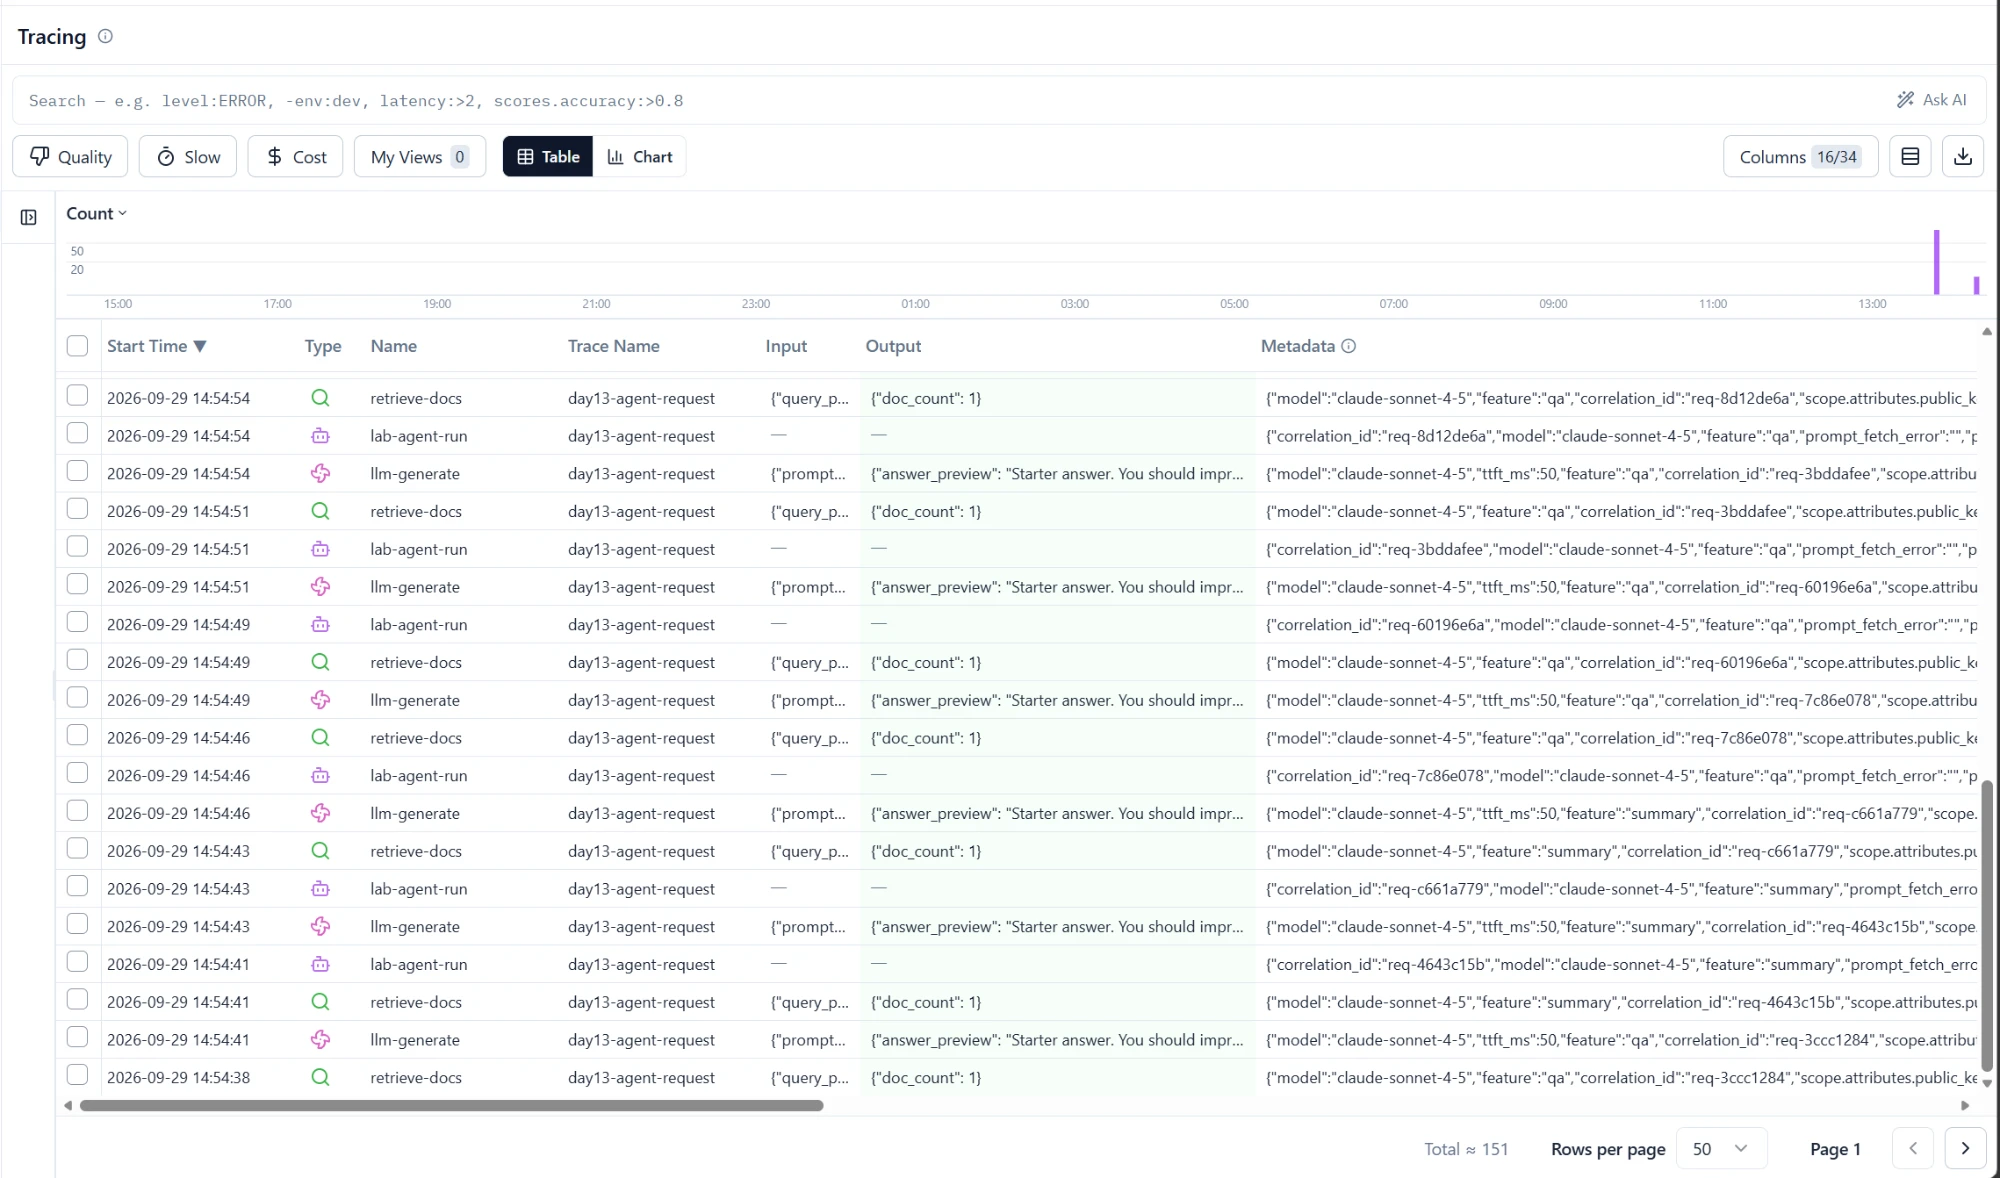
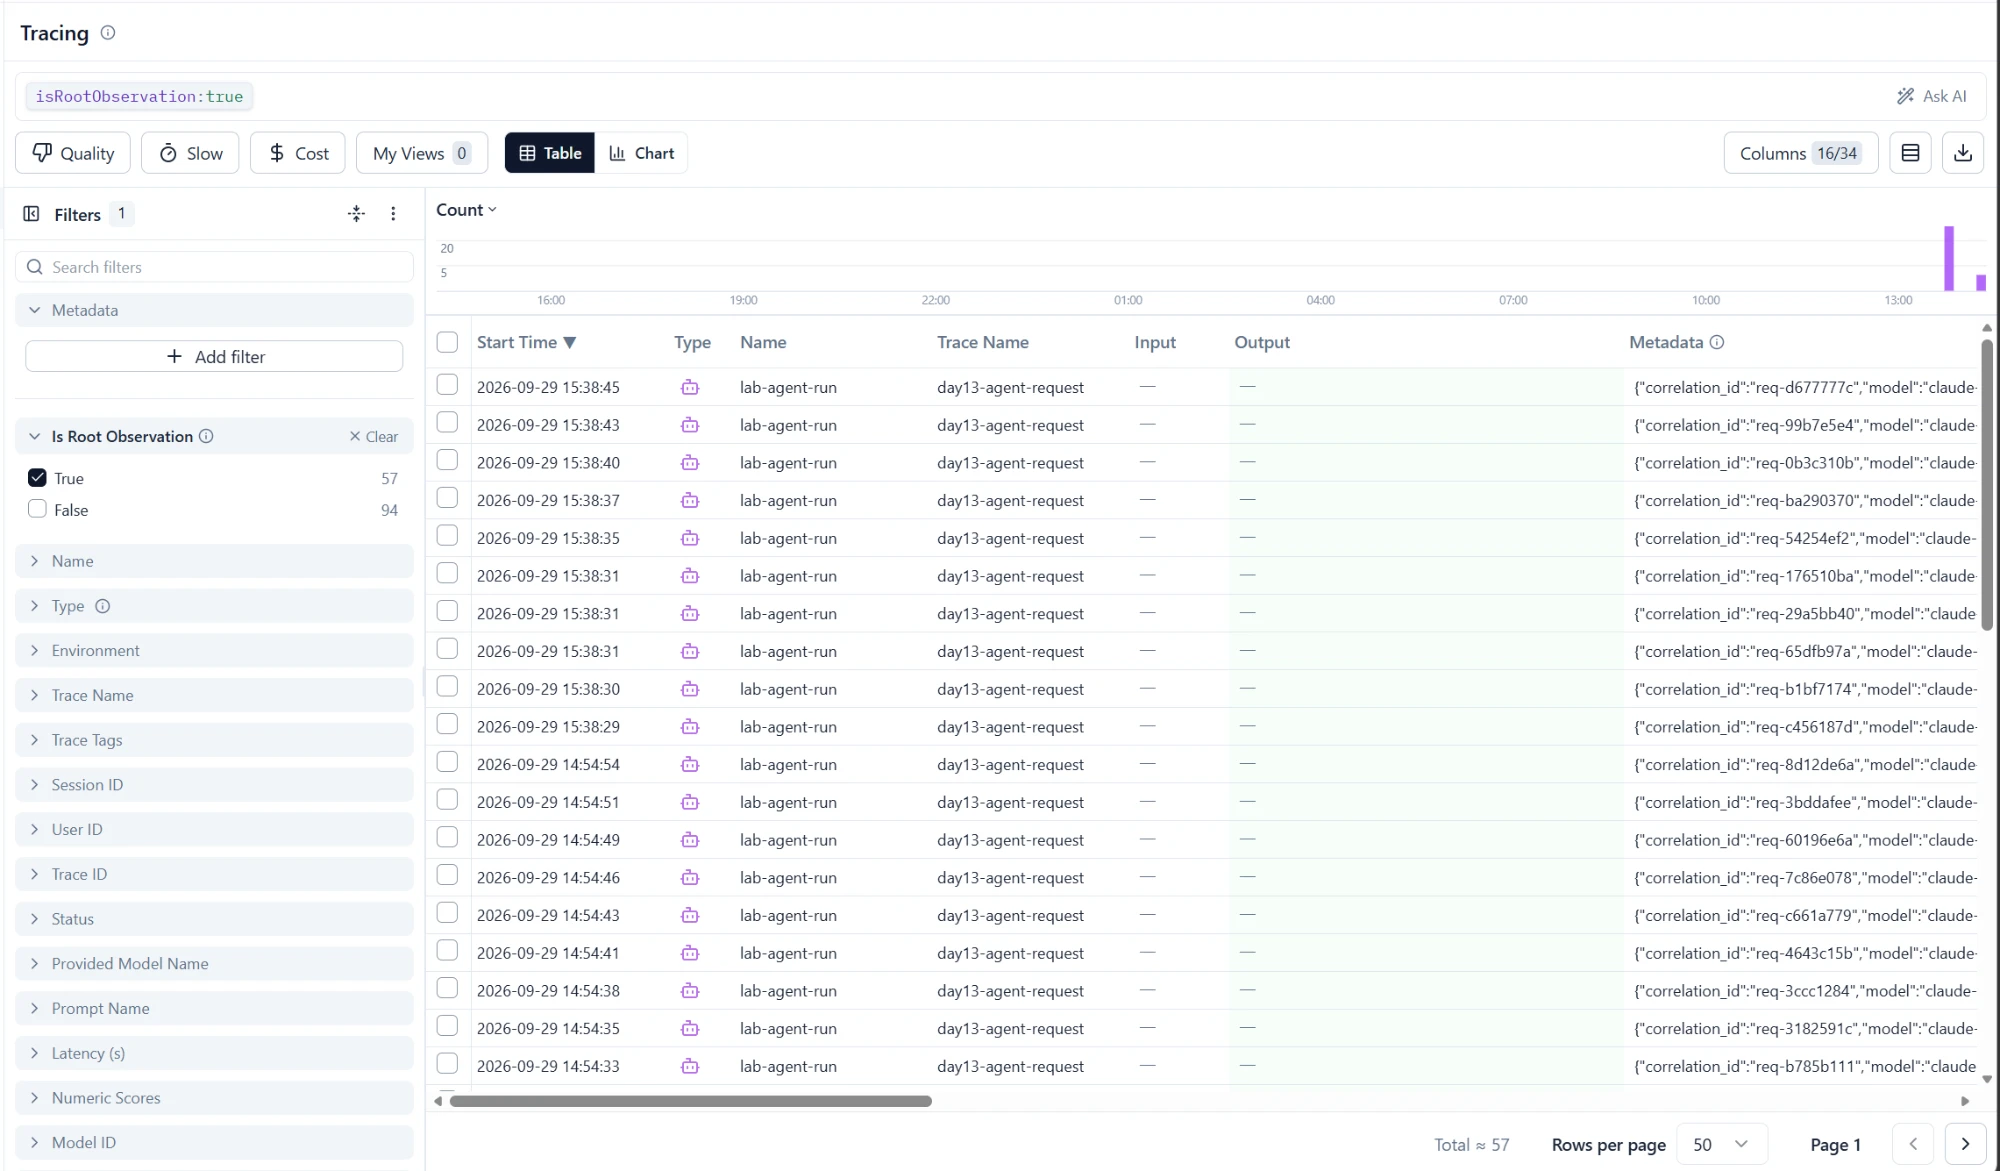
docs: trace list evidence filtered to root observations (57 traces)

diff --git a/submission/REPORT.md b/submission/REPORT.md
@@ -40,7 +40,7 @@
 | `validate_logs.py` | 30/100 (thiếu correlation_id, enrichment) | 100/100 | 47 correlation ID khác nhau, 0 lỗi field |
 | `validate_dashboard.py` | 6/6 panel | 6/6 panel | contract vốn đã hợp lệ; dashboard runtime dựng bằng `scripts/build_dashboard.py` |
 | `pytest` | 22 passed | 25 passed | thêm test CCCD, thẻ, passport |
-| Số traces hợp lệ | 0 (tracing tắt) | 47 trace `lab-agent-run` (khớp 47 correlation ID trong log) | mỗi trace có 2 span con, tạo từ project cá nhân |
+| Số traces hợp lệ | 0 (tracing tắt) | 57 trace `lab-agent-run` (Is Root Observation = true, xem evidence 06) | mỗi trace có 2 span con, tạo từ project cá nhân |
 | Số PII leak | 0 (validator baseline) | 0 | request thử chứa email, SĐT, thẻ, CCCD đều bị che |
 | Latency P95 / TTFT P95 | ~155 ms (chưa tracing) | 1083 ms / 50 ms | P99 4315 ms do request đầu sau mỗi lần restart (tải prompt Langfuse); P50 152 ms |
 | Retrieval success rate | 100% | 100% | không có incident |
